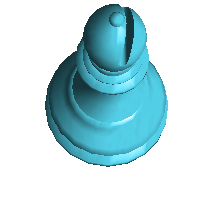
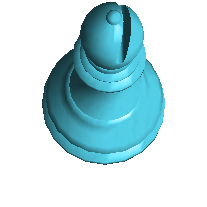
fix pieces size

diff --git a/chessmaster/cm_series.user.css b/chessmaster/cm_series.user.css
@@ -1,0 +1,388 @@
+/* ==UserStyle==
+@name           CM Series Chess Set 3D
+@author         agiota_do_artenio
+@namespace      ChessSkins
+@description    `pieces for chess.com.`
+@version        1.0.0
+@license        NO-REDISTRIBUTION
+@preprocessor   stylus
+@var    select      myBoard    "Escolher tabuleiro" {
+            "Caspian": "op1",
+            "Madeira": "w01",
+            "Madeira escura*": "w01Dark",
+            "Mad. vermelha": "w02",
+            "Desativado": "op0",
+        }
+
+@var    select      myPieces    "Escolher Peças"{
+            "Caspian": "op1",
+            "PL Metalic": "op2",
+            "Marshall": "op3",
+            "Marshall escuro": "op4",
+            "Kingsway": "op5",
+            "Desativado": "op0",
+        }
+
+@var    select      setHighLight    "Escolher de destaque"{
+            "Predefinido*": "op1",
+            "Escolher cores": "op2",
+            "Desativado": "op0",
+}
+
+@var    color    userMoveCol  "cor do movim."   #ffea00ab
+@var    color    userSelCol  "cor da sel."   #ffb833eb
+
+@var    checkbox    setEvaluationBar "Barra de avaliação personalizada" 1
+@var    checkbox    setArrows   "Modificar Setas" 0
+@var    range    hueRotationArrow  "Tonalidade das setas" [15, 0, 355, 5, "deg"]
+@var    range    arrowOpacity  "Opacidade das setas" [0.9, 0.3, 1, 0.1, ""]
+@var    range    saturateArrow  "Saturação (setas)" [130, 0, 300, 5, "%"]
+@var    range    brightnessArrow    "Brilho (setas)" [130, 5, 300, 5, "%"]
+
+@var    checkbox    setPiecesColSettings "Habilitar cores extras das peças" 0
+
+@var    range    brightnessB  "Brilho (pretas)" [100, 5, 300, 5, "%"]
+@var    range    contrastB  "Contraste (pretas)" [100, 5, 300, 5, "%"]
+@var    range    saturateB  "Saturação (pretas)" [100, 0, 300, 5, "%"]
+@var    range    sepiaB  "Sepia (pretas)" [0, 0, 100, 5, "%"]
+@var    range    hueRotationB  "Tonalidade (pretas)" [0, 0, 355, 5, "deg"]
+@var    range    brightnessW    "Brilho (brancas)" [100, 5, 300, 5, "%"]
+@var    range    contrastW  "Contraste (brancas)" [100, 5, 300, 5, "%"]
+@var    range    saturateW  "Saturação (brancas)" [100, 0, 300, 5, "%"]
+@var    range    sepiaW  "Sepia (brancas)" [0, 0, 100, 5, "%"]
+@var    range    hueRotationW  "Tonalidade (brancas)" [0, 0, 355, 5, "deg"]
+
+@var    checkbox    setServer   "Servidor: GitHub <--> GitLab" 0
+==/UserStyle== */
+@-moz-document domain("chess.com") {
+    /*The beautify function may cause an error by joining the following variables into a single line.
+    Just revert the changes to make it work again.*/
+    
+    /*primary server (GitHub)*/    
+    gitHub = 'https://github.com/FSA1/Styles/raw/main/'
+    
+    /*alternative server (GitLab)*/
+    gitLab = 'https://gitlab.com/FSA11/Styles/-/raw/main/'
+		
+    /*there is no error below*/
+    if setServer {
+        server = gitLab
+    }else{
+        server = gitHub
+    }
+    movTex=''
+    if myBoard=="op1" {
+        boardlink = server + "chessmaster/boards/caspian/caspian_dark.jpg"
+        miniBoard = boardlink
+        darkSqTex = ""
+        lightSqTex = ""
+        darksq=#947d59
+        lightsq=#dcceb6
+        hlcol=#b2e1bf40
+        selcol=#86e0c0
+        hlOpacity=.7
+        //movTex=server + "chessmaster/boards/caspian/moveSquare2.png"
+        hlBorderStyle=solid
+        hlBorderCol=#9febb4
+    }
+    if myBoard=="w01" {
+        boardlink = server + "latvian/boards/wood.jpg"
+        miniBoard = server + "latvian/boards/mini/wood.jpg"
+        darkSqTex = server + "latvian/boards/mini/w1evalB.png"
+        lightSqTex = server + "latvian/boards/mini/w1evalW.png"
+        darksq=#B07148
+        lightsq=#c4a88a
+        hlcol=#f2c246
+        selcol=#7a8a27
+    }
+    if myBoard=="w01Dark" {
+        boardlink = server + "latvian/boards/dark-wood2.jpg"
+        miniBoard = server + "latvian/boards/mini/dark-wood.jpg"
+        darkSqTex = server + "latvian/boards/mini/w2evalB.png"
+        lightSqTex = server + "latvian/boards/mini/w2evalW.png"
+        darksq=#7D5636
+        lightsq=#bda489
+        hlcol=#dd891b
+        selcol=#778136
+    }
+    if myBoard=="w02" {
+        boardlink = server + "latvian/boards/red-wood.jpg"
+        miniBoard = server + "latvian/boards/mini/red-wood.jpg"
+        darkSqTex = server + "latvian/boards/mini/w3evalB.png"
+        lightSqTex = server + "latvian/boards/mini/w3evalW.png"
+        darksq=#9f4f47
+        lightsq=#d2a798
+        hlcol=#ed6d31
+        selcol=#495e23
+    }
+    /*Boards*/
+    if myBoard!="op0" {
+        /*Chessboard.board,*/
+        .board-brown .cg-wrap,
+        div[class^="daily-puzzle-board"],
+        div[class^="board chessboard-component"],
+        div[class^="board v-board chessboard-component"],
+        div[class^="board rounded"],
+        div[class^="board rounded fippled"],
+        div[class^="board fippled rounded"],
+        div[class^="board v-board rounded"],
+        div[class^="board v-board fippled rounded"],
+        div[class^="board disabled rounded"],
+        div[id$="_ChessBoard_boardarea"],
+        div[id^="chess_com_openingboard_1"],
+        div[id^="board_training"],
+        div[id^="divBoard_boardarea"],
+        div[id^="chess_com_tactics_board"],
+        div[id^="chessboard_"],
+        div[id*="chessboard_"],
+        div[id^="chess_com_chessmentorboard_"],
+        div[id*="chess_com_chessmentorboard_"],
+        div[id*="chess_com_chessmentor_board_1_boardarea"],
+        div[id^="chess_com_emailboard_"],
+        div[id^="board-blank"],
+        chess-board[class^="board"],
+        chess-board[class^="board flipped"],
+        chess-board[id^="board-blank"],
+        chess-board[id^="board-vs-personalities"],
+        div[id*="chess_com_emailboard_"] {
+                background: url(boardlink) 0% 0% / 100% 100% no-repeat!important;
+        }
+        /*Evaluation bar*/
+        if setEvaluationBar {
+            .evaluation-bar-black {
+                background: url(darkSqTex) 0% 0% / 100% 100% no-repeat !important;
+                background-color: darksq !important;
+                }
+            .evaluation-bar-white {
+                background: url(lightSqTex) 0% 0% / 100% 100% no-repeat !important;
+                background-color: lightsq !important;
+                }
+        }
+        /*Small board for game preview*/
+        .game-preview-component.promo-preview,
+        div [style*="40.png"][class="game-preview-component"],
+        div [style*="40.jpg"][class="game-preview-component"] {
+            background: url(miniBoard) 0% 0% / 100% 100% no-repeat !important;
+        }
+        /*------Coordinates------*/
+        div.number.coords-light,
+        div.letter.coords-light,
+        text.coordinate-light {
+            color: darksq!important;
+            fill: @color;
+        }
+        div.number.coords-dark,
+        div.letter.coords-dark,
+        text.coordinate-dark {
+            color: lightsq !important;
+            fill: @color;
+        }
+        /*Highlight*/
+        if setHighLight=="op1" {
+            .move-square, 
+            .highlight:not({notThisColors}) {
+                background: url(movTex) 0% 0% / 100% 100% no-repeat !important;
+                background-color: hlcol !important;
+                border-style: hlBorderStyle !important;
+                border-color: hlBorderCol !important;
+                border-width: 6px !important;
+                opacity: hlOpacity!important;
+            }
+            .selection-square
+            {
+                background-color: selcol !important;
+                border-style: solid !important;
+                border-color: #947d59c2 !important;
+                border-width: 6px !important;
+            }
+        }else if setHighLight=="op2" {
+            .move-square, 
+            .highlight:not({notThisColors}) {
+                background-color: userMoveCol !important;
+            }
+            .selection-square
+            {
+                background-color: userSelCol !important;
+            }
+        }
+
+        /*Change Arrows colors*/
+        if setArrows {
+            .arrow {
+                filter: hue-rotate(hueRotationArrow) brightness(brightnessArrow) saturate(saturateArrow)!important;
+                -webkit-filter: @filter;
+                -moz-filter: @filter;
+                -o--filter: @filter;
+                opacity: arrowOpacity !important;
+            }
+        }
+    }/*End boards section*/
+    
+    /*Pieces*/
+    /*fallback path for mini pieces*/
+    pathWmini = pathW
+    pathBmini = pathB
+    if myPieces=="op1"{
+		pathW = "chessmaster/pieces/3D/caspian/small/w"
+		pathB = "chessmaster/pieces/3D/caspian/small/b"
+        pathWmini = "chessmaster/pieces/3D/caspian/mini/w"
+        pathBmini = "chessmaster/pieces/3D/caspian/mini/b"
+    }
+    if myPieces=="op2"{
+		pathW = "chessmaster/pieces/3D/pl_metalic/w"
+		pathB = "chessmaster/pieces/3D/pl_metalic/b"
+    }
+    if myPieces=="op3"{
+		pathW = "chessmaster/pieces/3D/marshall/beige/w"
+		pathB = "chessmaster/pieces/3D/marshall/blue/b"
+    }
+    if myPieces=="op4"{
+		pathW = "chessmaster/pieces/3D/marshall/dark_beige/w"
+		pathB = "chessmaster/pieces/3D/marshall/deep_blue/b"
+    }
+    if myPieces=="op5"{
+		pathW = "kingsway/pieces/w"
+		pathB = "kingsway/pieces/red/b"
+    }
+        mySelector = ':after'
+    
+    if myPieces !="op0" {
+        .piece.bk{mySelector}, .promotion-piece.bk{mySelector}, div [style*="bk.png"] {
+            background-image: url(server + pathB + "k.png")!important;
+        }
+        .piece.bq{mySelector}, .promotion-piece.bq{mySelector}, div [style*="bq.png"] {
+            background-image:url(server + pathB + "q.png")!important;
+        }
+        .piece.bb{mySelector}, .promotion-piece.bb{mySelector}, div [style*="bb.png"] {
+            background-image: url(server + pathB + "b.png")!important;
+        }
+        .piece.bn{mySelector}, .promotion-piece.bn{mySelector}, div [style*="bn.png"] {
+            background-image: url(server + pathB + "n.png")!important;
+        }
+        .piece.br{mySelector}, .promotion-piece.br{mySelector}, div [style*="br.png"] {
+            background-image: url(server + pathB + "r.png")!important;
+        }
+        .piece.bp{mySelector}, .promotion-piece.bp{mySelector}, div [style*="bp.png"] {
+            background-image: url(server + pathB + "p.png")!important;
+        }
+        .piece.wk{mySelector}, .promotion-piece.wk{mySelector}, div [style*="wk.png"] {
+            background-image: url(server + pathW + "k.png")!important;
+        }
+        .piece.wq{mySelector}, .promotion-piece.wq{mySelector}, div [style*="wq.png"] {
+            background-image: url(server + pathW + "q.png")!important;
+        }
+        .piece.wb{mySelector}, .promotion-piece.wb{mySelector}, div [style*="wb.png"] {
+            background-image: url(server + pathW + "b.png")!important;
+        }
+        .piece.wn{mySelector}, .promotion-piece.wn{mySelector}, div [style*="wn.png"] {
+            background-image: url(server + pathW + "n.png")!important;
+        }
+        .piece.wr{mySelector}, .promotion-piece.wr{mySelector}, div [style*="wr.png"] {
+            background-image: url(server + pathW + "r.png")!important;
+        }
+        .piece.wp{mySelector}, .promotion-piece.wp{mySelector}, div [style*="wp.png"] {
+            background-image: url(server + pathW + "p.png")!important;
+        }
+        /*pieces for mini-boards*/
+        img[src*="bk.png"] {
+            content: url(server + pathBmini + "k.png")!important;
+        }
+        img[src*="bq.png"] {
+            content:url(server + pathBmini + "q.png")!important;
+        }
+        img[src*="bb.png"] {
+            content: url(server + pathBmini + "b.png")!important;
+        }
+        img[src*="bn.png"] {
+            content: url(server + pathBmini + "n.png")!important;
+        }
+        img[src*="br.png"] {
+            content: url(server + pathBmini + "r.png")!important;
+        }
+        img[src*="bp.png"] {
+            content: url(server + pathBmini + "p.png")!important;
+        }
+        img[src*="wk.png"] {
+            content: url(server + pathWmini + "k.png")!important;
+        }
+        img[src*="wq.png"] {
+            content: url(server + pathWmini + "q.png")!important;
+        }
+        img[src*="wb.png"] {
+            content: url(server + pathWmini + "b.png")!important;
+        }
+        img[src*="wn.png"] {
+            content: url(server + pathWmini + "n.png")!important;
+        }
+        img[src*="wr.png"] {
+            content: url(server + pathWmini + "r.png")!important;
+        }
+        img[src*="wp.png"] {
+            content: url(server + pathWmini + "p.png")!important;
+        }
+
+    /*------Blend, hue and shadow------*/
+    if setPiecesColSettings {
+        .king.black,
+        .piece.bk,
+        .promotion-piece.bk,
+        div [style*="bk.png"],
+        .queen.black,
+        .piece.bq,
+        .promotion-piece.bq,
+        div [style*="bq.png"],
+        .bishop.black,
+        .piece.bb,
+        .promotion-piece.bb,
+        div [style*="bb.png"],
+        .knight.black,
+        .piece.bn,
+        .promotion-piece.bn,
+        div [style*="bn.png"],
+        .rook.black,
+        .piece.br,
+        .promotion-piece.br,
+        div [style*="br.png"],
+        .pawn.black,
+        .piece.bp,
+        .promotion-piece.bp,
+        div [style*="bp.png"] {
+
+                filter: sepia(sepiaB) hue-rotate(hueRotationB) brightness(brightnessB) saturate(saturateB) contrast(contrastB) !important;
+                -webkit-filter: @filter;
+                -moz-filter: @filter;
+                -o-filter: @filter;
+        }
+        .king.white,
+        .piece.wk,
+        .promotion-piece.wk,
+        div [style*="wk.png"],
+        .queen.white,
+        .piece.wq,
+        .promotion-piece.wq,
+        div [style*="wq.png"],
+        .bishop.white,
+        .piece.wb,
+        .promotion-piece.wb,
+        div [style*="wb.png"],
+        .knight.white,
+        .piece.wn,
+        .promotion-piece.wn,
+        div [style*="wn.png"],
+        .rook.white,
+        .piece.wr,
+        .promotion-piece.wr,
+        div [style*="wr.png"],
+        .pawn.white,
+        .piece.wp,
+        .promotion-piece.wp,
+        div [style*="wp.png"] {
+                filter: sepia(sepiaW) hue-rotate(hueRotationW) brightness(brightnessW) saturate(saturateW) contrast(contrastW) !important;
+                -webkit-filter: @filter;
+                -moz-filter: @filter;
+                -o-filter: @filter;
+        }
+    }
+        
+    }       
+}
